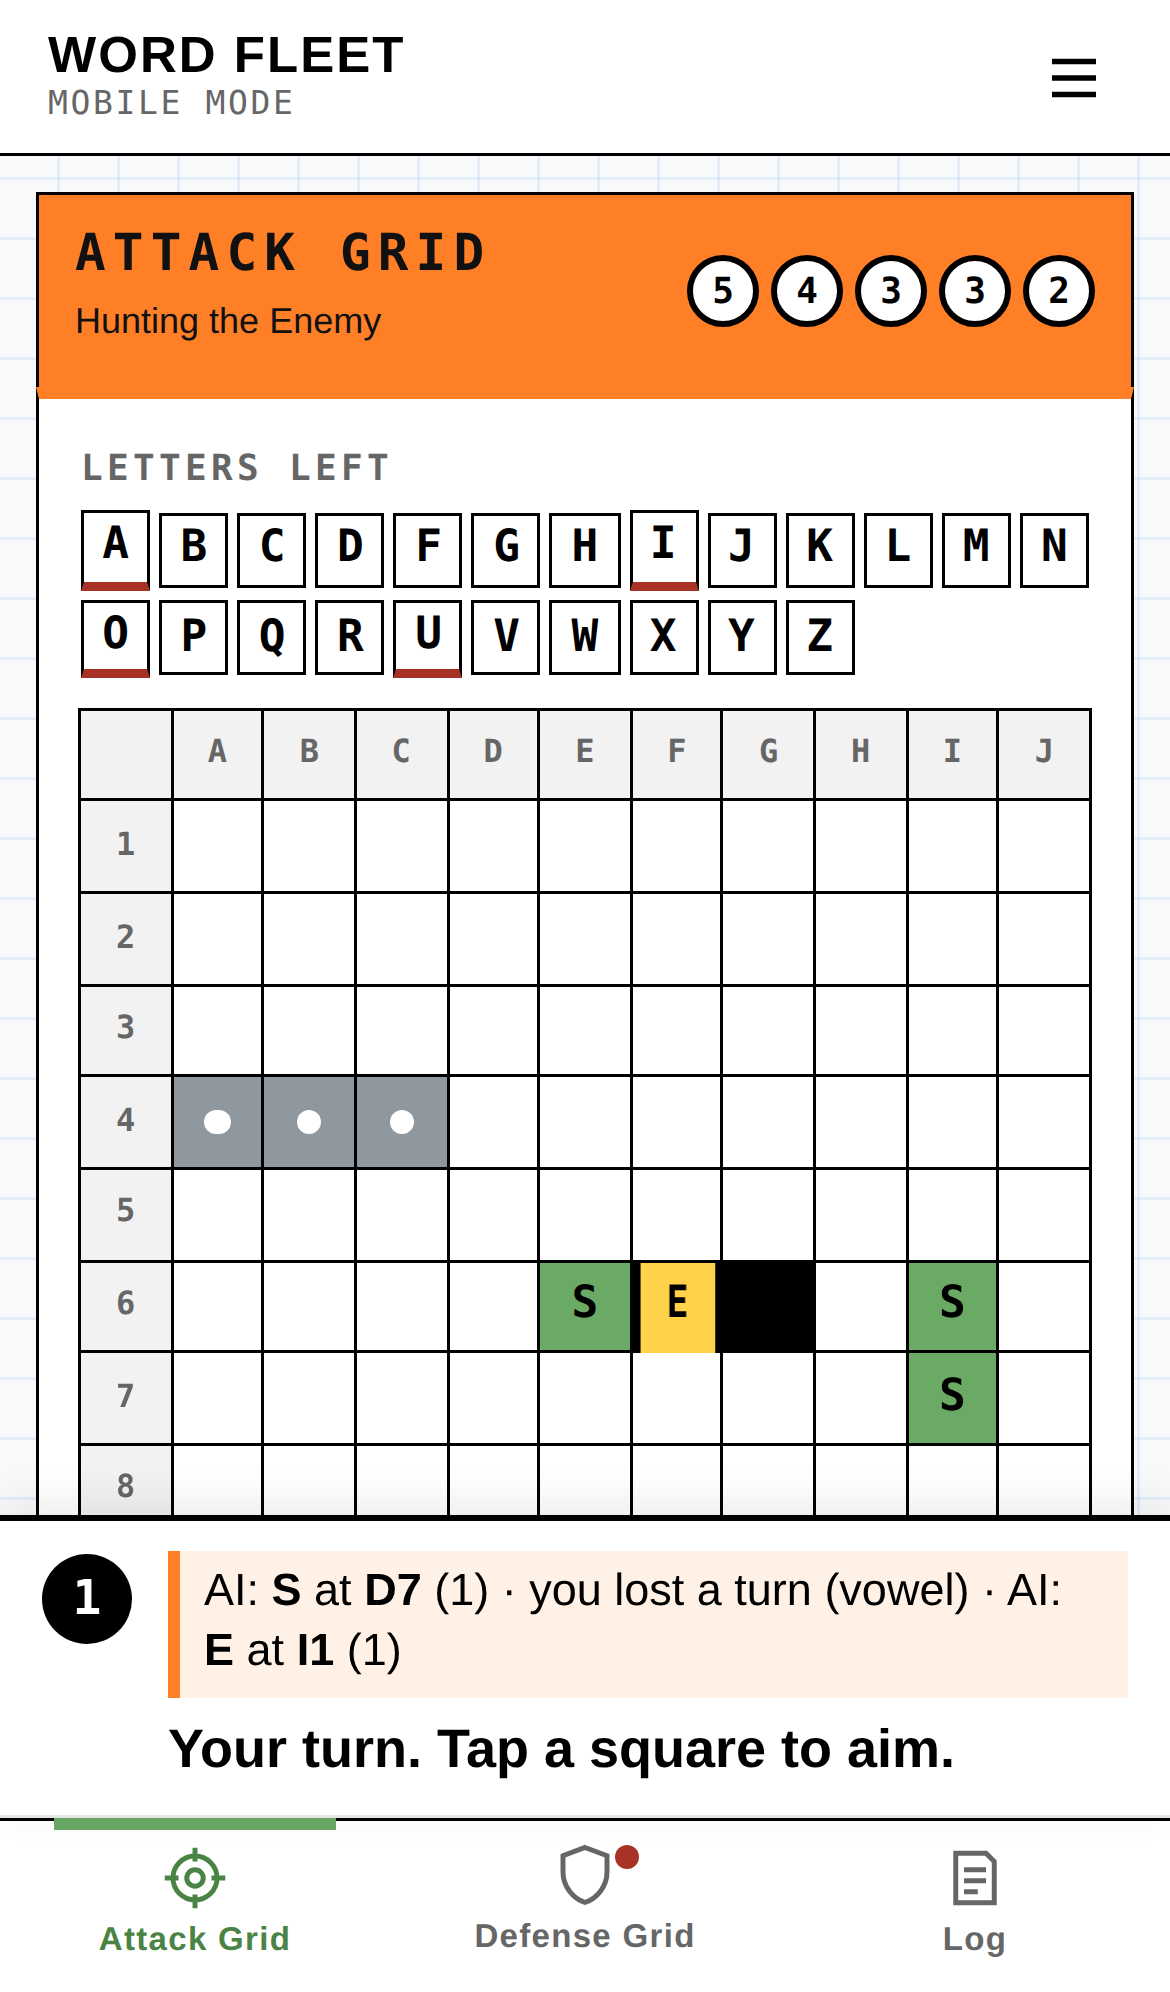
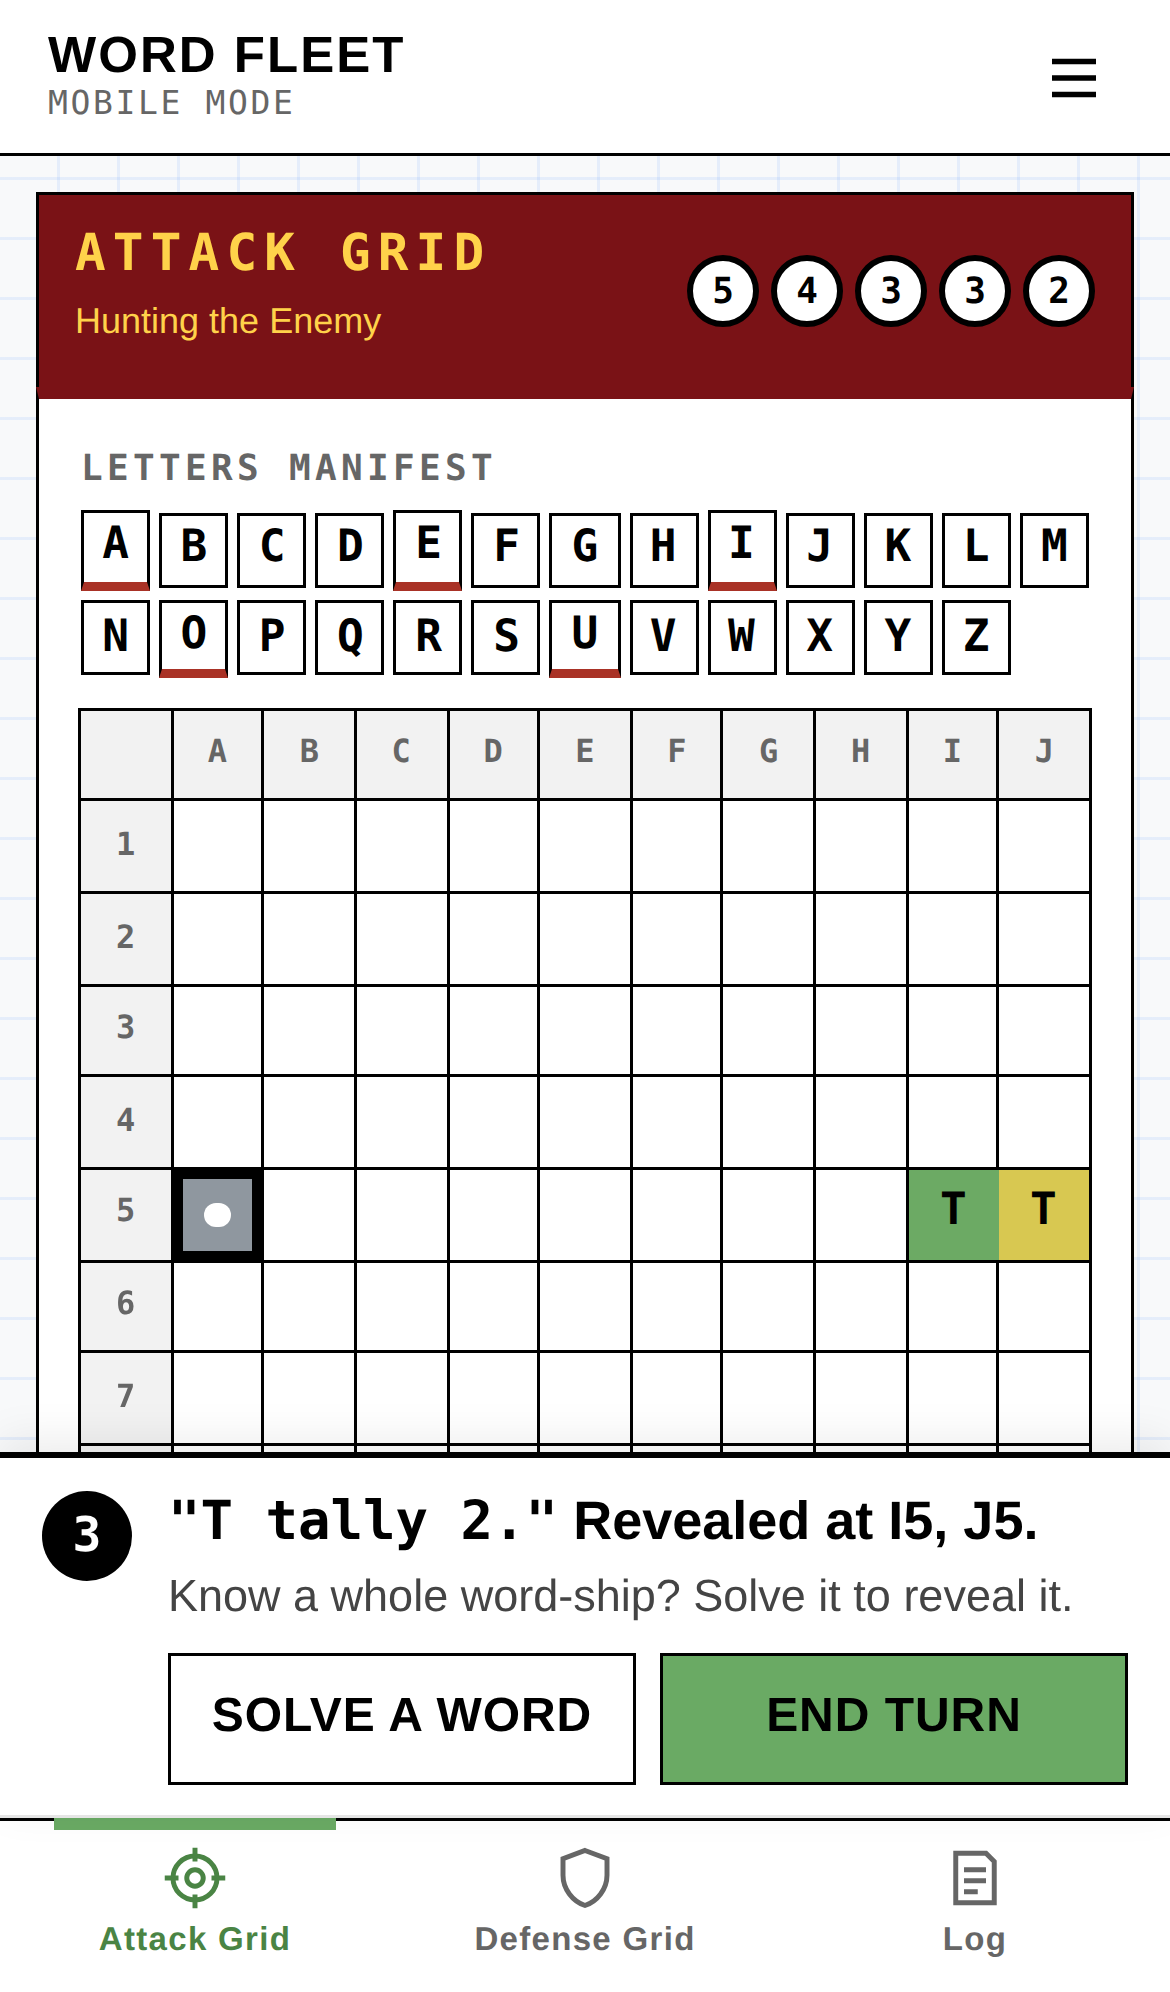
Attack Grid flies your fleet colors
Banner, card edge and the aiming Letters Manifest use --mine instead of the enemy's
orange. v129.

Claude-Session: https://claude.ai/code/session_013sUGAAEC45a1EJCrQWVj9Q

diff --git a/mobile/app.css b/mobile/app.css
@@ -548,11 +548,11 @@ button.mf { font: inherit; color: var(--ink); width: 100%; padding: 3px 0 2px; c
 
 /* The AI Captain's colors (FOE_SCHEME in app.js): Signal Orange & Black */
 :root { --foe: #ff7f27; --foe-ink: #111111; }
-.gridbanner.is-attack { background: var(--foe); color: var(--foe-ink); }
-.gridbanner.is-attack span { opacity: 1; }
-.card--attack { border-top-color: var(--foe); }
 
-/* Your side flies your fleet colors (set from S.colors as --mine / --mine-ink) */
+/* Your side flies your fleet colors (set from S.colors as --mine / --mine-ink): both your grids */
+.gridbanner.is-attack { background: var(--mine, var(--navy)); color: var(--mine-ink, #fff); }
+.gridbanner.is-attack span { opacity: 1; }
+.card--attack { border-top-color: var(--mine, var(--navy)); }
 .gridbanner.is-defense { background: var(--mine, var(--navy)); color: var(--mine-ink, #fff); }
 .gridbanner.is-defense span { opacity: 1; }
 .card--defense { border-top-color: var(--mine, var(--navy)); }
@@ -699,8 +699,8 @@ button.mf { font: inherit; color: var(--ink); width: 100%; padding: 3px 0 2px; c
 .coach-news { font-size: 15px; line-height: 1.35; }
 
 /* Aiming: the Letters Manifest lights up and its letters become buttons */
-.uncalled.is-picking { background: #fff1e6; outline: 3px solid var(--foe); outline-offset: 2px; animation: pulse-out 1.2s ease-out 1; }
+.uncalled.is-picking { background: #fff; outline: 3px solid var(--mine, var(--navy)); outline-offset: 2px; animation: pulse-out 1.2s ease-out 1; }
 .uncalled.is-picking .uncalled-label { color: var(--ink); }
 button.uc { cursor: pointer; padding: 0; color: var(--ink); }
-button.uc:active { background: var(--foe); }
-@keyframes pulse-out { 0% { outline-color: rgba(255,127,39,0); } 50% { outline-color: var(--foe); } }
+button.uc:active { background: var(--mine, var(--navy)); color: var(--mine-ink, #fff); }
+@keyframes pulse-out { 0% { outline-color: transparent; } 50% { outline-color: var(--mine, var(--navy)); } }

diff --git a/mobile/index.html b/mobile/index.html
@@ -18,7 +18,7 @@
   <link rel="preconnect" href="https://fonts.gstatic.com" crossorigin>
   <link href="https://fonts.googleapis.com/css2?family=Courier+Prime:wght@400;700&family=Inter:wght@400;500;600;700&display=swap" rel="stylesheet">
   <!-- Bump ?v= on every release (and CACHE in sw.js) so a new page never runs old code. -->
-  <link rel="stylesheet" href="app.css?v=128">
+  <link rel="stylesheet" href="app.css?v=129">
 </head>
 <body>
 
@@ -243,7 +243,7 @@
 <div class="coach coach--notice" id="notice" role="alert" aria-live="assertive" hidden></div>
 <div class="bonus-banner" id="bonusBanner" role="status" aria-live="assertive" hidden></div>
 
-<script src="audio.js?v=128"></script>
-<script src="app.js?v=128"></script>
+<script src="audio.js?v=129"></script>
+<script src="app.js?v=129"></script>
 </body>
 </html>

diff --git a/mobile/sw.js b/mobile/sw.js
@@ -1,11 +1,11 @@
 /* Word Fleet service worker: the whole game works offline once loaded. */
-var CACHE = 'wordfleet-v128';
+var CACHE = 'wordfleet-v129';
 var SHELL = [
   './',
   'index.html',
-  'app.css?v=128',
-  'app.js?v=128',
-  'audio.js?v=128',
+  'app.css?v=129',
+  'app.js?v=129',
+  'audio.js?v=129',
   'manifest.webmanifest',
   'icons/icon-180.png',
   'icons/icon-192.png',

diff --git a/mobile/screens/README.md b/mobile/screens/README.md
@@ -13,7 +13,7 @@ referred to by name when asking for changes. Each has a reference snapshot in th
 | **003-MOBILE-WORD-SHIPS** | `<section id="scrWords" data-screen="003-MOBILE-WORD-SHIPS">`, `SCREENS.words` | `003-mobile-word-ships.png` | Header line: your flag and fleet name. Card title "Build Your Word-Ships". "Allow possibly offensive words" switch ("Applies to both fleets. Switching it draws five new word-ships."): flipping it either way redraws all five words to follow the new setting. With it on, possibly offensive words come up slightly more often (a 10% nudge per word, `OFFENSIVE_NUDGE`); never-suggested words still never do. Suggested and redrawn words always come from the chosen AI Captain's word level. Section "Check your five word-ships" with ↻ REBUILD ALL; "Tap any word-ship to type your own." Possibly offensive words show in red. Each word has a ↻ redraw; a typed word is checked against the dictionary when its box loses focus, and all are checked on "NEXT: DEPLOY" (75%). Back. |
 | *(notices, 001-004)* | `#notice` (`showNotice`, `toast`, `setupNotice` in app.js) | `notice-003.png` | Prepare-section notices use the battle coach bar's look: docked at the bottom, a red **!** marker, the first sentence bold and the rest smaller. 003 shows word-ship problems there until fixed; 004 flashes "won't fit" for a moment. |
 | **004-MOBILE-DEPLOY** | `<section id="scrDeploy" data-screen="004-MOBILE-DEPLOY">`, `SCREENS.deploy` | `004-mobile-deploy.png` | Step 4 of 4 of Prepare for Battle, same look as 001-003; header line: your flag and fleet name. Card title "Deploy Your Fleet", then the Defense Grid dressed like the in-game one ("DEFENSE GRID PREVIEW" banner with your fleet name under it, in your fleet's colors from 001: color 1 behind, color 2 for the text, color 1 along the top edge). Opens with the five word-ships already deployed at random, in green; they never leave the grid. Section "Keep this layout or rearrange it" with ⇄ SHUFFLE (new random layout); drag a ship to move it, double-tap its first letter to turn it. "LET THE BATTLE BEGIN!" (progress bar full), Back. |
-| **005-MOBILE-ATTACK** | `<div id="tabAttack" data-screen="005-MOBILE-ATTACK">` in `#scrBattle`; coach bar `#coach` | `005-mobile-attack.png`, `005-mobile-bonus-turn.png`, `005-mobile-solve.png` | Battle, Attack Grid tab: the Attack Grid under its Signal Orange banner ("ATTACK GRID / Hunting the Enemy"), with the **Letters Manifest** strip above the grid: every letter not yet called (vowels underlined in red), each dropping out once called. Tap a square to aim (the manifest lights up and its letters become buttons), then tap a letter to call it; tap another square to re-aim or the same square to cancel. There is no letter-picker popup. Called letters show on the grid. The **coach bar** above the tabs always says what to do next, with a step marker and at most two buttons: ① "Your turn. Tap a square to aim." (with everything since your last turn folded into one line above it, e.g. "AI: E at A9 (0) · you lost a turn (vowel)") → ② "Call a letter for D4" → ③ '"T tally 2." Revealed at D6, C6' with SOLVE A WORD and END TURN; ★ gold for a bonus turn; "AI Captain is aiming…" on its turn. The grid tells the story: new letters flip in one by one, the aimed square keeps a marker (gold ✓ when the letter was there), the called letter drops out of the Letters Manifest. Bonus turn also plays the bell-and-fanfare and flashes "★ BONUS TURN!". Longer hints for a captain's first two calls, or with Hints on in the ☰ menu. Solve a Word (`005-MOBILE-SOLVE`) and Demand Surrender (009, ☰ menu only) are the only popups. The AI's turn no longer jumps to the Defense tab; its tab gets a red dot. |
+| **005-MOBILE-ATTACK** | `<div id="tabAttack" data-screen="005-MOBILE-ATTACK">` in `#scrBattle`; coach bar `#coach` | `005-mobile-attack.png`, `005-mobile-bonus-turn.png`, `005-mobile-solve.png` | Battle, Attack Grid tab: the Attack Grid under a banner in your fleet colors ("ATTACK GRID / Hunting the Enemy"), with the **Letters Manifest** strip above the grid: every letter not yet called (vowels underlined in red), each dropping out once called. Tap a square to aim (the manifest lights up and its letters become buttons), then tap a letter to call it; tap another square to re-aim or the same square to cancel. There is no letter-picker popup. Called letters show on the grid. The **coach bar** above the tabs always says what to do next, with a step marker and at most two buttons: ① "Your turn. Tap a square to aim." (with everything since your last turn folded into one line above it, e.g. "AI: E at A9 (0) · you lost a turn (vowel)") → ② "Call a letter for D4" → ③ '"T tally 2." Revealed at D6, C6' with SOLVE A WORD and END TURN; ★ gold for a bonus turn; "AI Captain is aiming…" on its turn. The grid tells the story: new letters flip in one by one, the aimed square keeps a marker (gold ✓ when the letter was there), the called letter drops out of the Letters Manifest. Bonus turn also plays the bell-and-fanfare and flashes "★ BONUS TURN!". Longer hints for a captain's first two calls, or with Hints on in the ☰ menu. Solve a Word (`005-MOBILE-SOLVE`) and Demand Surrender (009, ☰ menu only) are the only popups. The AI's turn no longer jumps to the Defense tab; its tab gets a red dot. |
 | **006-MOBILE-CALL-LETTER** | state of 005: `#uncalled.is-picking` | `006-mobile-call-letter.png` | No longer a popup. After you tap a hidden square, the Letters Manifest above the Attack Grid is outlined in orange, reads "LETTERS MANIFEST · FOR D4", and its letters become buttons. Coach bar step ②. |
 | **007-MOBILE-DEFENSE** | `<div id="tabDefense" data-screen="007-MOBILE-DEFENSE">` | `007-mobile-defense.png` | Battle, Defense Grid tab, built like the Attack Grid but in your fleet colors: banner "DEFENSE GRID" with your fleet name and your five ship circles (a circle turns red only when the AI Captain has revealed that whole word-ship), then your fleet with the AI Captain's picks. No incoming-fire box and no manifest on the tab: the AI Captain's moves are reported in the coach bar, and an "AI Letters Manifest" strip above the grid (matching the Attack Grid) shows the letters the AI Captain has not called yet, with the ones in your fleet filled in your colors. |
 | **008-MOBILE-LOG** | `<div id="tabLog" data-screen="008-MOBILE-LOG">` | `008-mobile-log.png` | Battle, Log tab: small "CAPTAIN'S LOG" then your flag and fleet name, as on the Prepare screens. Below, newest on top, a plain list with an ⚓ bullet on every entry; your moves and the AI Captain's show that side's flag and fleet name, Fleet Command notices are just the text. |
